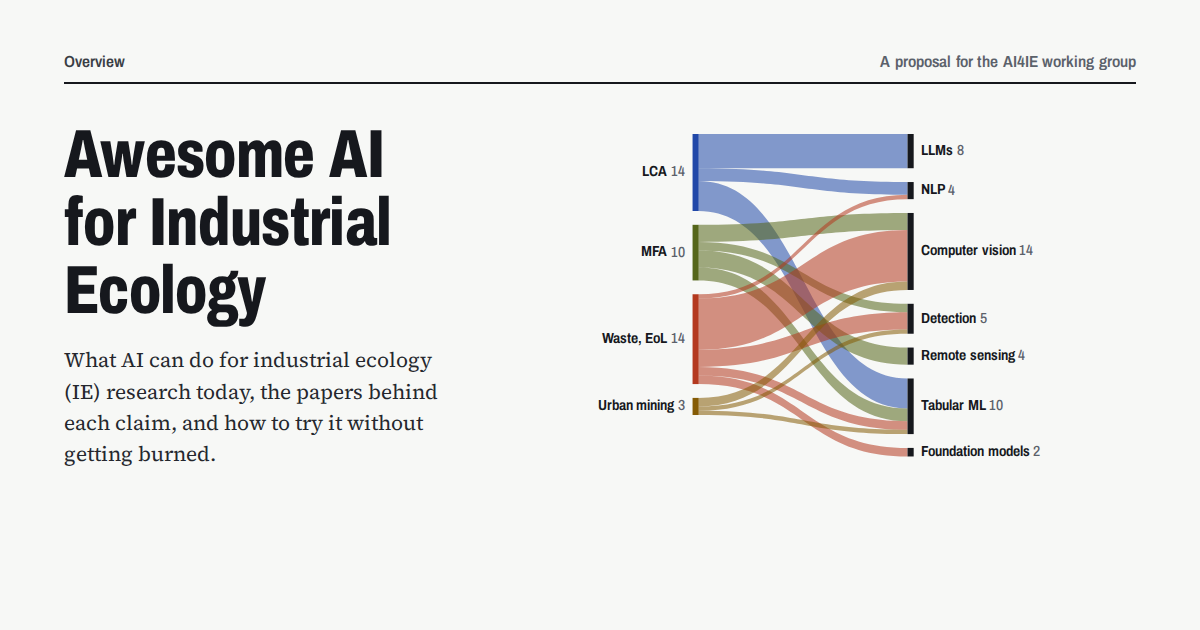
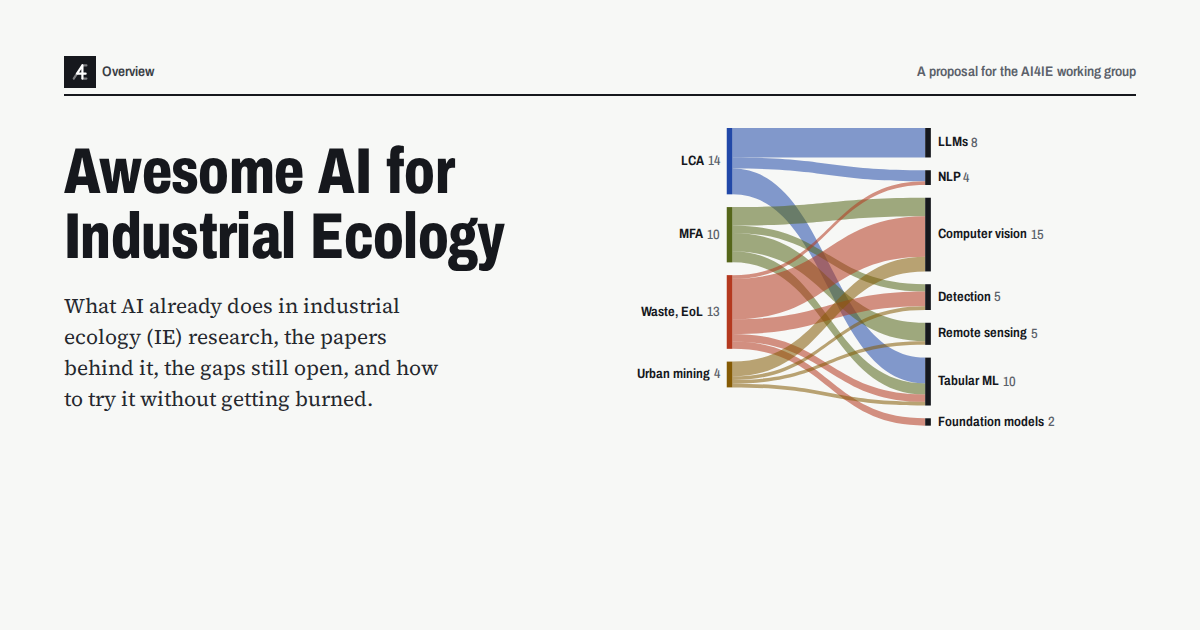
feat: use the AI4IE mark as end mark, cover head and 404 plate (#42)
- one shared Glyph component, drawn in neutral ink on the page: cobalt is ink 1, so the mark stays cobalt only in the favicon and the README
- a colophon closes every page: the mark as end mark, then the licences (content CC BY 4.0, code MIT), which the site never showed
- the cover's running head gets the mark as chapter 0
- the 404 page is titled "Page not found" and shows the mark as Fig. 404 in a dashed frame, the site's mark for a gap
- the social card is rebuilt from the cover with the mark, the current tagline and Fig. 1's current counts; scripts/og.mjs (npm run og) redoes it
- the favicon loses its rounded corners, and DESIGN.md says where the mark may appear

Changed region(s): [[0.0308, 0.2111, 0.4317, 0.754], [0.4933, 0.181, 0.8942, 0.7238], [0.0308, 0.0905, 0.9558, 0.1508]]

diff --git a/src/styles/custom.css b/src/styles/custom.css
@@ -528,7 +528,7 @@ starlight-menu-button button {
 .flow-hit {
   fill: transparent;
 }
-:is(.flow, .path) figcaption {
+:is(.flow, .path, .plate) figcaption {
   margin-top: 0.75rem;
   padding-top: 0.5rem;
   border-top: 1px solid var(--sl-color-hairline);
@@ -537,7 +537,7 @@ starlight-menu-button button {
   line-height: 1.45;
   color: var(--sl-color-gray-2);
 }
-:is(.flow, .path) figcaption b {
+:is(.flow, .path, .plate) figcaption b {
   margin-right: 0.25rem;
   color: var(--sl-color-white);
 }
@@ -549,6 +549,71 @@ starlight-menu-button button {
 }
 .flow-src {
   color: var(--sl-color-gray-3);
+}
+
+/* ── The mark (Glyph.astro) ───────────────────────────────────────────────
+   Neutral ink, never cobalt on the page: cobalt is ink 1. DESIGN.md, "The mark". */
+.glyph {
+  display: block;
+  flex: none;
+}
+.glyph-fade {
+  stroke: var(--glyph-fade, var(--sl-color-gray-4));
+}
+/* On the cover's running head the mark is chapter 0, in a number block. */
+.running-glyph {
+  vertical-align: middle;
+}
+.running-glyph .glyph {
+  width: 1.1rem;
+  height: 1.1rem;
+}
+.running-glyph .glyph-fade {
+  stroke: currentColor;
+  opacity: 0.45;
+}
+/* Fig. 404: the mark as a plate, framed by the dashed gap outline. */
+.plate {
+  margin: 0;
+  min-width: 0;
+  max-width: 22rem;
+}
+.plate-frame {
+  display: grid;
+  place-items: center;
+  aspect-ratio: 1;
+  border: 1px dashed var(--sl-color-gray-3);
+  color: var(--sl-color-white);
+}
+/* Sized against the frame, not the text, so large text cannot widen the page. */
+.plate-frame .glyph {
+  width: min(12rem, 55%);
+  height: auto;
+  aspect-ratio: 1;
+}
+/* Colophon (Footer override): the end mark and the licences. */
+.colophon {
+  display: flex;
+  flex-wrap: wrap;
+  align-items: center;
+  gap: 0.5rem;
+  margin: 3rem 0 0;
+  font-family: var(--sl-font);
+  font-size: 0.8125rem;
+  font-weight: 600;
+  font-stretch: 85%;
+  color: var(--sl-color-gray-3);
+}
+.colophon .glyph {
+  width: 1rem;
+  height: 1rem;
+  color: var(--sl-color-white);
+}
+.colophon a {
+  color: inherit;
+}
+.colophon + footer .meta {
+  margin-top: 1.25rem;
 }
 @media (max-width: 40rem) {
   .flow text {

diff --git a/DESIGN.md b/DESIGN.md
@@ -59,6 +59,20 @@ Columns of numbers use tabular figures.
 - On touch screens, filter controls are at least 44px tall; Fig. 1's labels have a hit area of
   at least 24px.
 
+## The mark
+
+The mark is an Æ with a 4 drawn inside it ([`Glyph.astro`](src/components/Glyph.astro)). It
+sits outside the five inks: on the page it is neutral ink, with the 4 at full strength and
+the A's leg and the E's arms faded to grey. Cobalt is ink 1, so the mark is cobalt only off
+the page: the favicon and the README.
+
+- **Once per page, twice on the cover.** Inner pages show it only as the end mark in the
+  colophon, before the licences. The cover adds it as chapter 0 in the running head. The 404
+  page shows it once, as Fig. 404 in a dashed frame (a missing page is a gap).
+- **Never decoration.** No patterns, bullets, loaders or watermarks.
+- **Always beside text** that carries the meaning, so the SVG stays hidden from screen
+  readers.
+
 ## Components
 
 - **Running head.** Chapter number and title on the left, site name on the right (dropped on

diff --git a/README.md b/README.md
@@ -1,4 +1,4 @@
-# Awesome AI for Industrial Ecology
+<h1><img src="public/favicon.svg" width="36" height="36" alt=""> Awesome AI for Industrial Ecology</h1>
 
 A community-curated guide to using AI in industrial ecology (IE) research. Industrial ecology studies how materials and energy move through the economy: what products are made of, where they end up, and what that costs the environment. The guide has an applications map, a literature list, tool and hardware guidance, working Claude skills, and in-browser demos. It started in the AI4IE working group, and [anyone can contribute](CONTRIBUTING.md). To suggest a paper, a [short form](../../issues/new?template=paper.yml) is enough.
 

diff --git a/MAINTAINING.md b/MAINTAINING.md
@@ -48,6 +48,9 @@ If a suggestion doesn't hold up, say why in the issue and close it.
   the check counts those as fine.
 - **Stale entries.** Tool entries carry the month they were checked. Recheck any older than a
   year: `rg -n 'checked 20' src/content/docs/tools/` lists them.
+- **Social card.** `public/og.png` is a picture of the home cover, so it goes stale when the
+  tagline or Fig. 1's counts change. Rebuild it with `npm run build`, `npx astro preview` and
+  then `npm run og`, and commit the PNG.
 
 ## What's tied to the owner's account
 
